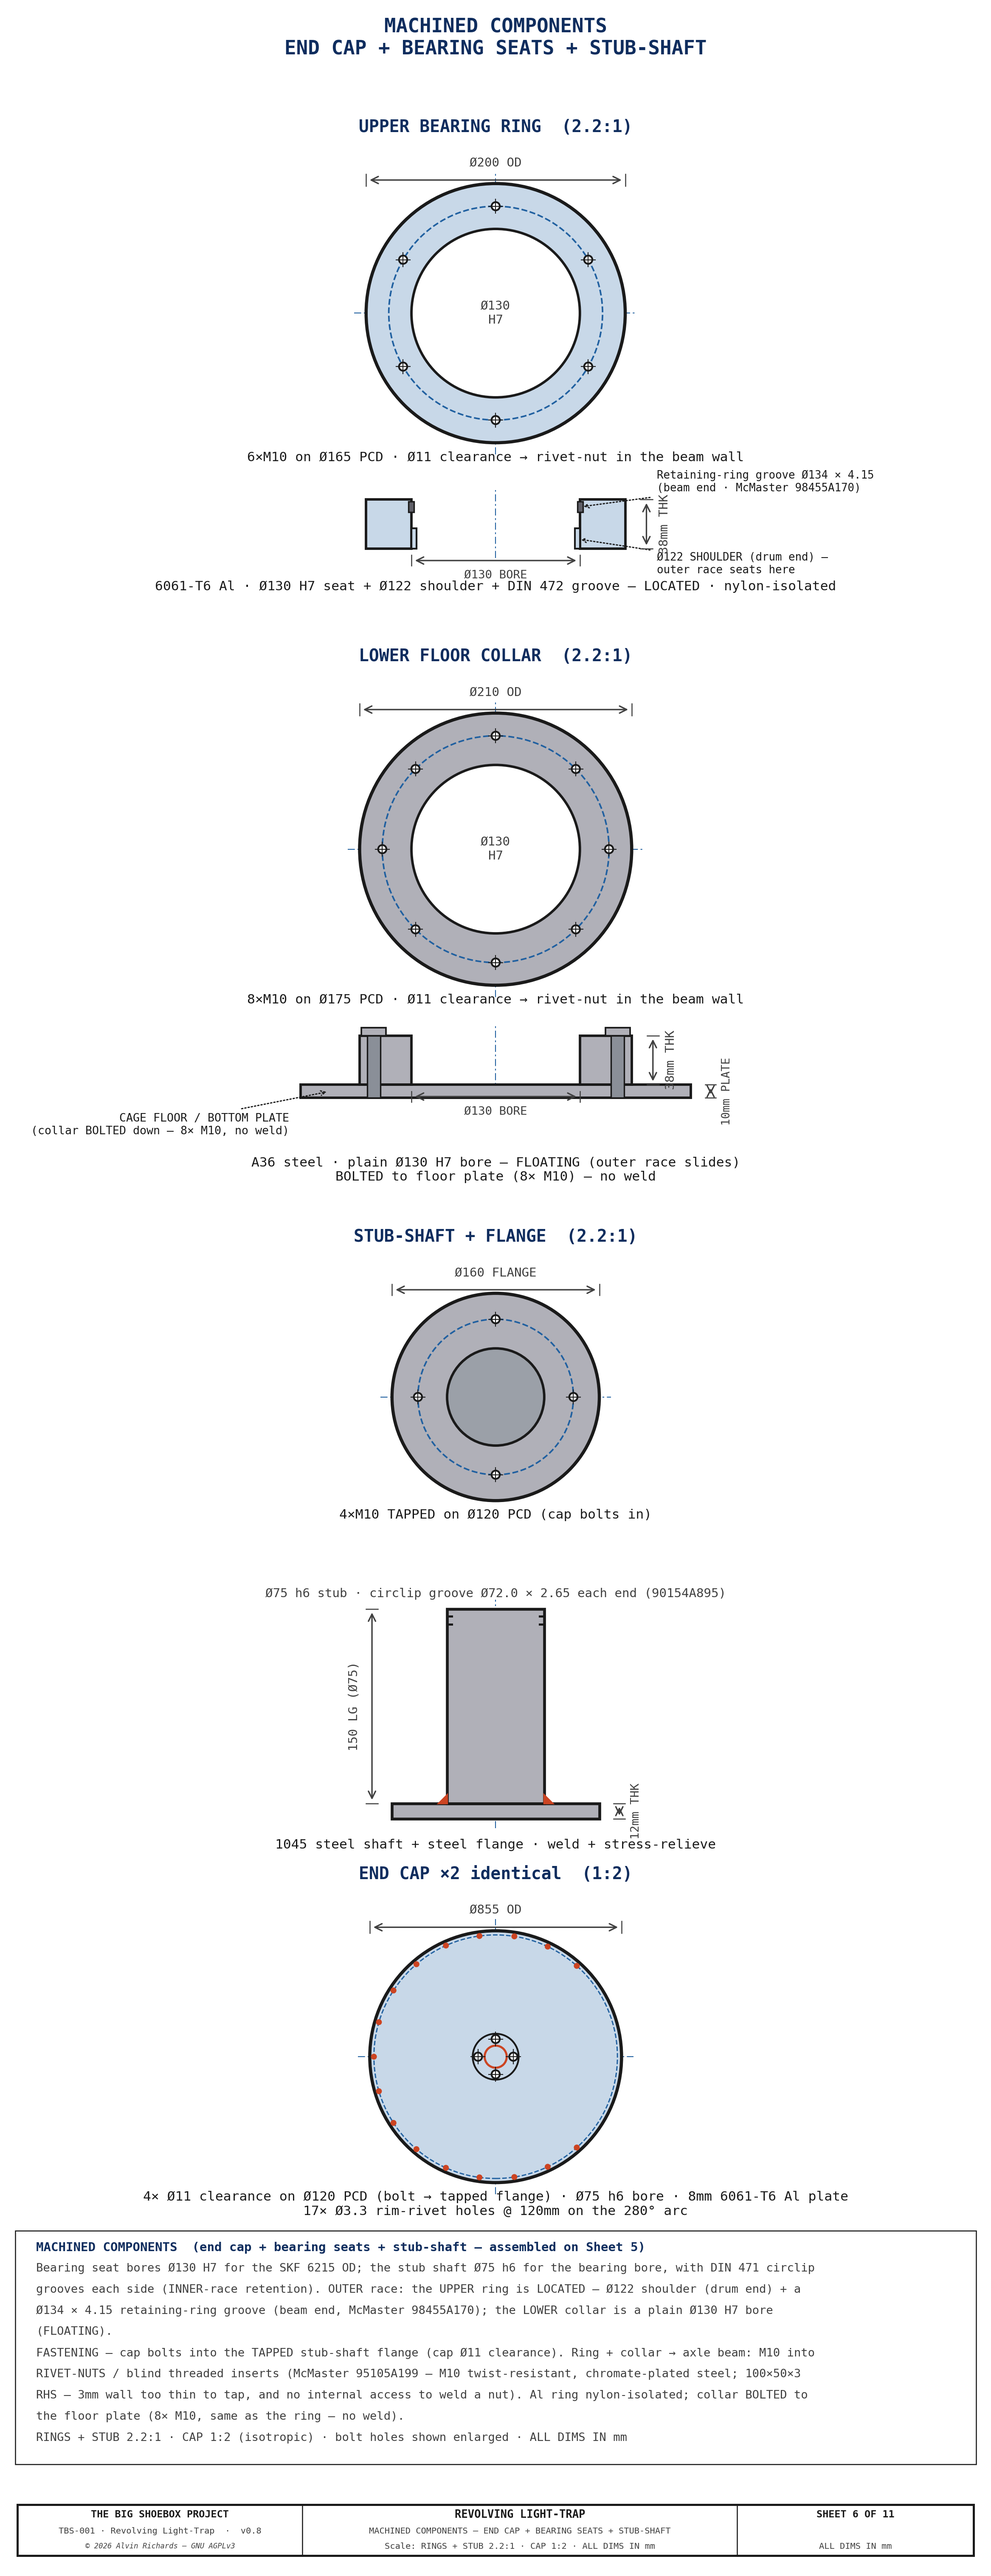
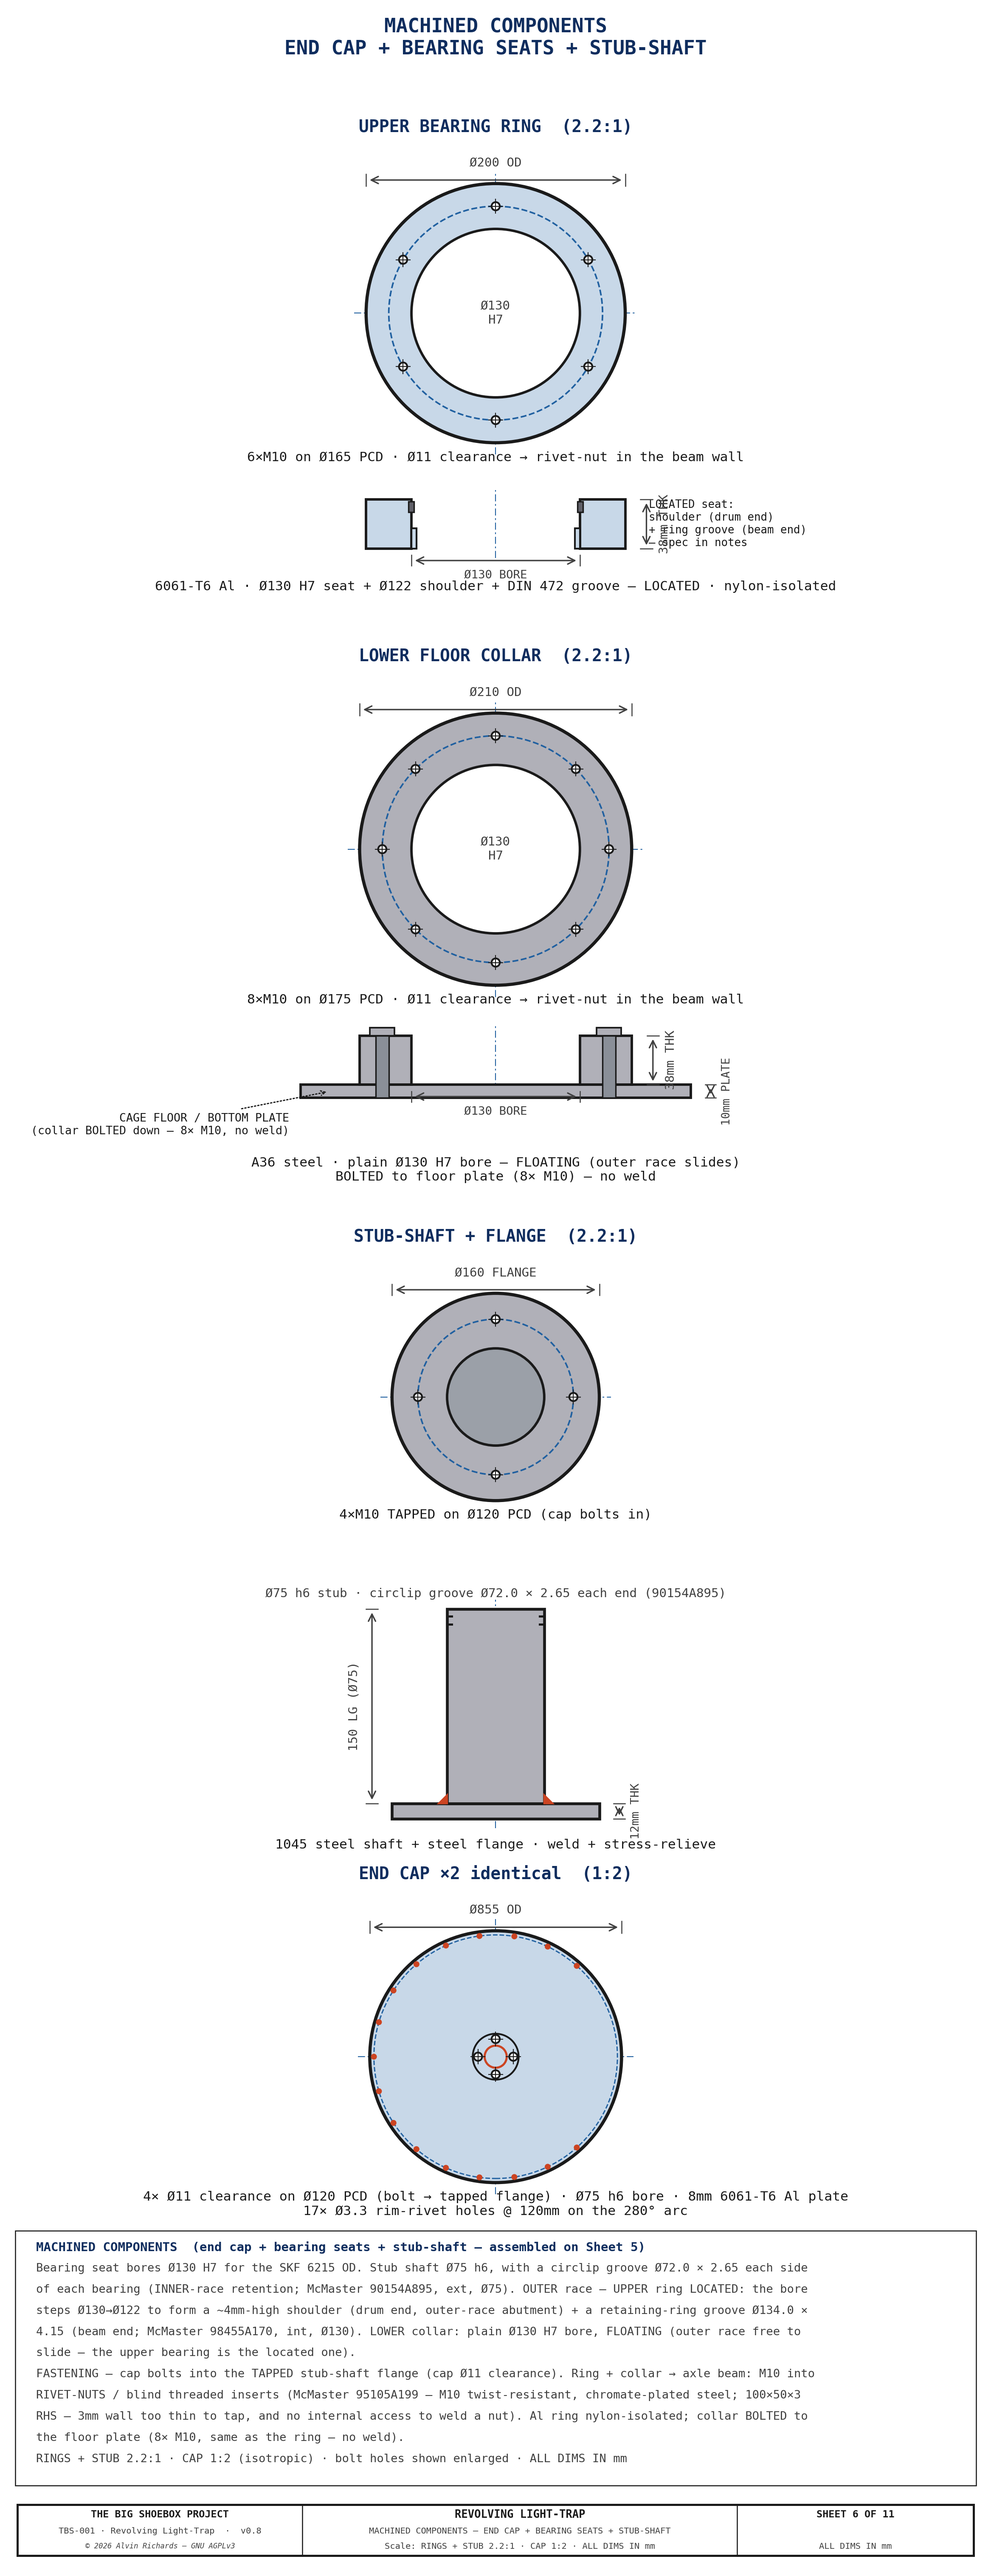
light-trap: bearing-retention review fixes (Sheets 5/6)
- Sheet 5: circlips redrawn as EXTERNAL clips seated in the shaft groove and
  standing proud of the shaft (were drawn projecting into it).
- Sheet 6: lower-collar section bolts moved onto the bolt PCD (were too close
  to the OD edge).
- Sheet 6: shoulder + groove dimensions moved into the machining notes (the
  tiny section callouts read poorly); section keeps a compact 'see notes' tag.
- Sheet 5: lower-hub label clarified - the outer race deliberately FLOATS
  (radially located, bearing captive on the shaft via the circlips).

diff --git a/src/generators/generate_lighttrap_diagram.py b/src/generators/generate_lighttrap_diagram.py
@@ -840,9 +840,10 @@ def draw_sheet5():                              # Sheet 5 — bearing hub
             wnz = 20 * SC * s                          # beam near wall face; the rivet-nut barrel spans the 3mm wall, head on the inner edge
             draw_bolt(ax, cx + g * 85 * SC, (ring_far + wnz) / 2, abs(wnz - ring_far),
                       d=8 * SC, head=int(-s), end="rivnut", wall=LT_FRAME_T * SC, csk=True, zb=9)
-            for zc in (13.5 * SC, -13.5 * SC):     # circlip grooves — snug each side of the bearing (below the beam)
-                ax.plot([cx + g * rs, cx + g * (rs - 5 * SC)], [zc, zc],
-                        color=C_OUT, lw=1.6, zorder=9)
+            for zc in (13.5 * SC, -13.5 * SC):     # DIN 471 EXTERNAL circlip — seated in the Ø72 shaft groove,
+                # projecting OUTWARD past the shaft OD to butt the bearing inner-race face (majority stands proud).
+                draw_rect(ax, min(cx + g * (rs - 1.5 * SC), cx + g * (rs + 3 * SC)), zc - 1.3 * SC,
+                          4.5 * SC, 2.6 * SC, fc="#707078", lw=0.8, zorder=9)
         # (Lower collar is BOLTED to the floor plate — 8× M10 into rivet-nuts, same as the upper
         #  ring; no weld. The ring→beam bolts above are the collar→plate connection.)
         draw_cl_v(ax, cx, -135 * SC, 135 * SC)
@@ -901,7 +902,7 @@ def draw_sheet5():                              # Sheet 5 — bearing hub
     lo_labels = [
         (58 * SC,  (0, 115 * SC),         f"BOTTOM CAP {LT_CAP_BOT_T:.0f}mm 6061-T6 Al\nbolt into TAPPED 4×M10 flange"),
         (-48 * SC, (100 * SC, -40 * SC),  "AXLE BEAM — 8×M10\ninto RIVET-NUTS"),
-        (12 * SC,  (ro + 20 * SC, 0),     "STEEL FLOOR COLLAR (BOLTED, not welded) —\nFLOATING bearing: plain Ø130 H7 bore, outer race free\nto slide axially (the upper bearing is the located one)"),
+        (12 * SC,  (ro + 20 * SC, 0),     "STEEL FLOOR COLLAR (BOLTED, not welded) — FLOATING bearing:\nthe outer race is deliberately NOT axially retained. The plain Ø130 H7\nbore locates it radially + it slides freely for thermal growth; the bearing\nis a captive unit held on the shaft by the circlips (upper bearing = located)"),
         (-18 * SC, (ro - 6 * SC, -18 * SC), "COLLAR → FLOOR PLATE:\n8×M10 BOLTED (rivet-nuts, no weld)"),
     ]
     for zt, (tx, tz), txt in lo_labels:
@@ -1041,10 +1042,8 @@ def draw_sheet6():
             for g in (-1, 1):
                 draw_rect(ax, min(cx + g * rsh, cx + g * rbore), sz, rbore - rsh, tz * 0.42, fc=fc, lw=1.0, zorder=6)      # shoulder lip
                 draw_rect(ax, min(cx + g * (rbore - 4), cx + g * (rbore + 5)), sz + tz * 0.74, 9, tz * 0.22, fc="#606068", lw=0.8, zorder=7)  # DIN 472 ring in groove
-            leader(ax, cx + (rsh + rbore) / 2, sz + tz * 0.2, cx + rod + 54, sz - 26,
-                   f"Ø{bore - 8} SHOULDER (drum end) —\nouter race seats here", fs=6.2, color=C_OUT, ha="left", arrow_style="->", font=FONT)
-            leader(ax, cx + rbore, sz + tz * 0.85, cx + rod + 54, sz + tz + 30,
-                   "Retaining-ring groove Ø134 × 4.15\n(beam end · McMaster 98455A170)", fs=6.2, color=C_OUT, ha="left", arrow_style="->", font=FONT)
+            ax.text(cx + rod + 40, sz + tz / 2, "LOCATED seat:\nshoulder (drum end)\n+ ring groove (beam end)\n— spec in notes", ha="left",
+                    va="center", fontsize=6.2, color=C_OUT, **FONT, zorder=9)
         draw_cl_v(ax, cx, sz - 16, sz + tz + 16)
         draw_dim_v(ax, cx + rod + 36, sz, sz + tz, f"{thk}mm THK", offset=34, fs=7, right=True, font=FONT)
         draw_dim_h(ax, cx - rbore, cx + rbore, sz - 20, f"Ø{bore} BORE", offset=30, fs=6.6, above=False, font=FONT)
@@ -1053,8 +1052,8 @@ def draw_sheet6():
             plate_tz = LT_FRAME_PLATE_T * s2
             plate_hw = rod + 100
             draw_rect(ax, cx - plate_hw, sz - plate_tz, 2 * plate_hw, plate_tz, fc=C_STEEL, lw=1.4, zorder=4)
-            for g in (-1, 1):                        # collar BOLTED down to the plate (was a fillet weld)
-                draw_bolt(ax, cx + g * (rod - 24), (sz + tz + sz - plate_tz) / 2, (tz + plate_tz),
+            for g in (-1, 1):                        # collar BOLTED down to the plate (on the bolt PCD — was a fillet weld)
+                draw_bolt(ax, cx + g * rpcd, (sz + tz + sz - plate_tz) / 2, (tz + plate_tz),
                           d=10 * s2, head=1, end="tapped", zb=8)
             draw_dim_v(ax, cx + plate_hw + 34, sz - plate_tz, sz, f"{LT_FRAME_PLATE_T}mm PLATE",
                        offset=30, fs=6.4, right=True, font=FONT)
@@ -1131,7 +1130,7 @@ def draw_sheet6():
 
     notes = [
         "MACHINED COMPONENTS  (end cap + bearing seats + stub-shaft — assembled on Sheet 5)",
-        f"Bearing seat bores Ø{SKF6215_OD} H7 for the SKF 6215 OD; the stub shaft Ø{SKF6215_ID} h6 for the bearing bore, with DIN 471 circlip grooves each side (INNER-race retention). OUTER race: the UPPER ring is LOCATED — Ø122 shoulder (drum end) + a Ø134 × 4.15 retaining-ring groove (beam end, McMaster 98455A170); the LOWER collar is a plain Ø130 H7 bore (FLOATING).",
+        f"Bearing seat bores Ø{SKF6215_OD} H7 for the SKF 6215 OD. Stub shaft Ø{SKF6215_ID} h6, with a circlip groove Ø72.0 × 2.65 each side of each bearing (INNER-race retention; McMaster 90154A895, ext, Ø75). OUTER race — UPPER ring LOCATED: the bore steps Ø130→Ø122 to form a ~4mm-high shoulder (drum end, outer-race abutment) + a retaining-ring groove Ø134.0 × 4.15 (beam end; McMaster 98455A170, int, Ø130). LOWER collar: plain Ø130 H7 bore, FLOATING (outer race free to slide — the upper bearing is the located one).",
         "FASTENING — cap bolts into the TAPPED stub-shaft flange (cap Ø11 clearance). Ring + collar → axle beam: M10 into RIVET-NUTS / blind threaded inserts (McMaster 95105A199 — M10 twist-resistant, chromate-plated steel; 100×50×3 RHS — 3mm wall too thin to tap, and no internal access to weld a nut). Al ring nylon-isolated; collar BOLTED to the floor plate (8× M10, same as the ring — no weld).",
         "RINGS + STUB 2.2:1 · CAP 1:2 (isotropic) · bolt holes shown enlarged · ALL DIMS IN mm",
     ]

diff --git a/RELEASE.md b/RELEASE.md
@@ -78,7 +78,7 @@ file** — a release must not ship without a changelog entry:
   **Rim-angle → frame: weld → TEK screws; designed shaft↔beam gap (review round 2):** the housing→frame **rim-angle is now TEK-screwed to the steel beam** (#14 self-drilling, Al flat leg → 3mm steel wall, ~150mm pitch) instead of welded — avoids welding aluminum to the steel frame (Sheet 9 Section A-A symbol/label/note + Sheet 10 note; new `ll-rim-teks` line ≈$8–12, lightlock +$8/$10/$12). On **Sheet 5** the bearing hub gained a **designed 5mm axial gap** between the stub-shaft top and the beam: the shaft is shortened to terminate just above the upper circlip, the ring extends 5mm past it to the beam (RING/COLLAR 30→35mm), and the **two circlips fix the bearing axially on the shaft so the shaft never touches the fixed beam** — dimensioned + called out. *(In progress.)*
   **New Sheet 11 — Pull-Handle Mount (to scale):** the cramped pull-handle-mount inset was pulled off the Sheet 1 GA onto its **own Sheet 11**, drawn in the blueprint style with a title block: **View A** the stile→cap **plug joint** in section at **3:1** (fully dimensioned — 8mm cap, 40×40×5 stile, ~30×30×40 plug, M12 + 2× M8) and **View B** the **handle arrangement** at 1:2 (308mm handle, 52mm standoff, feet). The light-trap set is now **11 sheets** (all "SHEET x OF 11"); Sheet 1 keeps the assembled stile + a "see Sheet 11" reference. Registered in the gallery / publish / setup / `dependencies.yml` and embedded in the report §9. *(In progress.)*
   **Lower collar weld → bolted:** the lower bearing's steel floor collar was fillet-welded to the cage floor plate *in addition to* its 8× M10 bolts; the redundant weld is dropped so the collar is **bolted-only** (8× M10, same pattern as the upper ring) — no aluminum-adjacent welding, and the two hubs are now symmetric. Sheet 5 hub + Sheet 6 collar detail (weld symbol → bolts) + labels/notes + report prose updated; no parts change (the bolts were already in the BOM). *(In progress.)*
-  **Bearing outer-race retention (located/floating):** the drawings only retained the *inner* race (shaft circlips) — the outer race was a plain Ø130 H7 bore with **no axial retention**, which wouldn't hold the drum's hanging weight. Added the standard located/floating scheme: the **UPPER bearing is LOCATED** — the outer race seats on a machined **Ø122 shoulder** (drum side, carries the hang) + a **DIN 472 retaining ring** (beam side); the **LOWER bearing FLOATS** (plain Ø130 H7 bore). Shown on the Sheet 5 hub + fully dimensioned on the Sheet 6 ring blueprint; the upper ring grew 30→38mm for the shoulder + gap. New `ll-bearing-rings` line — the retention hardware was previously uncosted — **firmed to McMaster 90154A895** (external, Ø75 shaft, $7.05 — inner) **+ 98455A170** (internal, Ø130 bore, $7.26 — outer), ≈$14; datasheets verified (the two SKUs were transposed in the source note) and the **bore groove corrected Ø139→Ø134 × 4.15** with the shaft groove Ø72.0 × 2.65 added to the Sheet 6 blueprint. lightlock → $2,959–$3,983. *(In progress.)*
+  **Bearing outer-race retention (located/floating):** the drawings only retained the *inner* race (shaft circlips) — the outer race was a plain Ø130 H7 bore with **no axial retention**, which wouldn't hold the drum's hanging weight. Added the standard located/floating scheme: the **UPPER bearing is LOCATED** — the outer race seats on a machined **Ø122 shoulder** (drum side, carries the hang) + a **DIN 472 retaining ring** (beam side); the **LOWER bearing FLOATS** (plain Ø130 H7 bore). Shown on the Sheet 5 hub + fully dimensioned on the Sheet 6 ring blueprint; the upper ring grew 30→38mm for the shoulder + gap. New `ll-bearing-rings` line — the retention hardware was previously uncosted — **firmed to McMaster 90154A895** (external, Ø75 shaft, $7.05 — inner) **+ 98455A170** (internal, Ø130 bore, $7.26 — outer), ≈$14; datasheets verified (the two SKUs were transposed in the source note) and the **bore groove corrected Ø139→Ø134 × 4.15** with the shaft groove Ø72.0 × 2.65 added to the Sheet 6 blueprint. lightlock → $2,959–$3,983. Follow-up review fixes: the Sheet 5 **circlips redrawn as external clips standing proud of the shaft** (were drawn projecting into it); the Sheet 6 lower-collar bolts moved **onto the bolt PCD** (were too near the OD edge); the shoulder/groove **dimensions moved into the machining notes** (the tiny section callouts read poorly); and the lower-hub label clarified that the **outer race deliberately floats** (radially located, captive on the shaft via the circlips — the upper bearing is the located one). *(In progress.)*
 - **Film-plane corner wall-mounts + IBC foot ↔ tray clash (branch `film-plane-left-brackets`).** Resolved
   the film-plane left-bracket + tray/IBC cluster. **Tray clash:** the two FRONT IBC floor feet were shifted
   outboard (derived from the tray edge) so their plate + anchors clear the processing-tray basin — the plate
